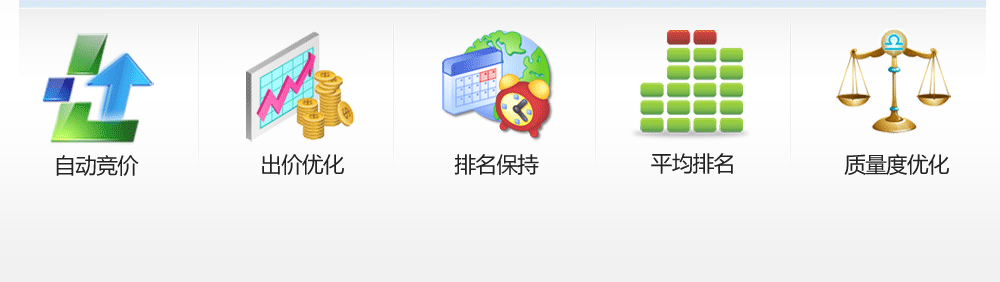
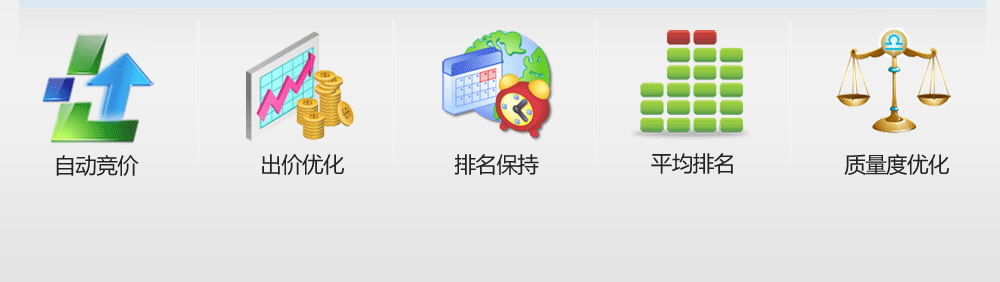
导航栏开发更新

diff --git a/sem/resource/themes/default/webui/index.htm b/sem/resource/themes/default/webui/index.htm
@@ -5,14 +5,14 @@
 		<title>助推宝</title>
 		<style type="text/css">
 			body,div,span {
-				font-family:Arial,Helvetica,sans-serif,"宋体";
+				font-family:Arial,"宋体",Helvetica,sans-serif;
 				font-size:12px;
 				color:#000000;
 				line-height:normal;
 				text-align:center;
 			}
 			body {
-				background:url("./images/topbg.gif") repeat-x scroll 0 0 #FFFFFF;
+				background:url("./images/topbg.gif") repeat-x scroll 0 0 #F1F1F1;
 				margin-top:0;
 			}
 			img {
@@ -30,13 +30,11 @@
 				margin:auto;
 				text-align:left;
 			}
-
 			.header {
 				width : 100%;
 				height: 153px;
 				border: 0;
 			}
-
 			.logo {
 				float: left;
 				width : 347px;
@@ -47,13 +45,33 @@
 			.top_r {
 				float:right;
 			}
+			.b_top {
+				width: 653px;
+				height: 45px;
+				background:url("./images/banner_top.png") no-repeat;
+			}
 			.navi {
+				width:653px;
 				height: 108px;
 			}
-			.b_top {
-				width : 653px;
-				height : 45px;
-				background:url("./images/banner_top.png") no-repeat;
+			.navi span {
+				float:left;
+				display:block;
+				width : 113px;
+				height : 43px;
+				font-size:14px;
+				font-weight:bold;
+				overflow:hidden;
+				margin-top:65px;
+				padding-top:15px;
+				cursor:pointer;
+			}
+			.navi a {
+				color:#000000;
+			}
+			.current {
+				color:#FFFFFF;
+				background:url("./images/navi_bg.gif") no-repeat;
 			}
 			.banner {
 				height : 274px;
@@ -144,7 +162,11 @@
 			<div class="header">
 				<div class="logo"></div>
 				<div class="top_r">
-					<div class="navi"></div>
+					<div class="navi">
+						<span class="current">首页</span>
+						<span><a href="$webroot/blog/">博客</a></span>
+						<span><a href="$webroot/webui/about">关于</a></span>
+					</div>
 					<div class="b_top"></div>
 				</div>
 			</div>
